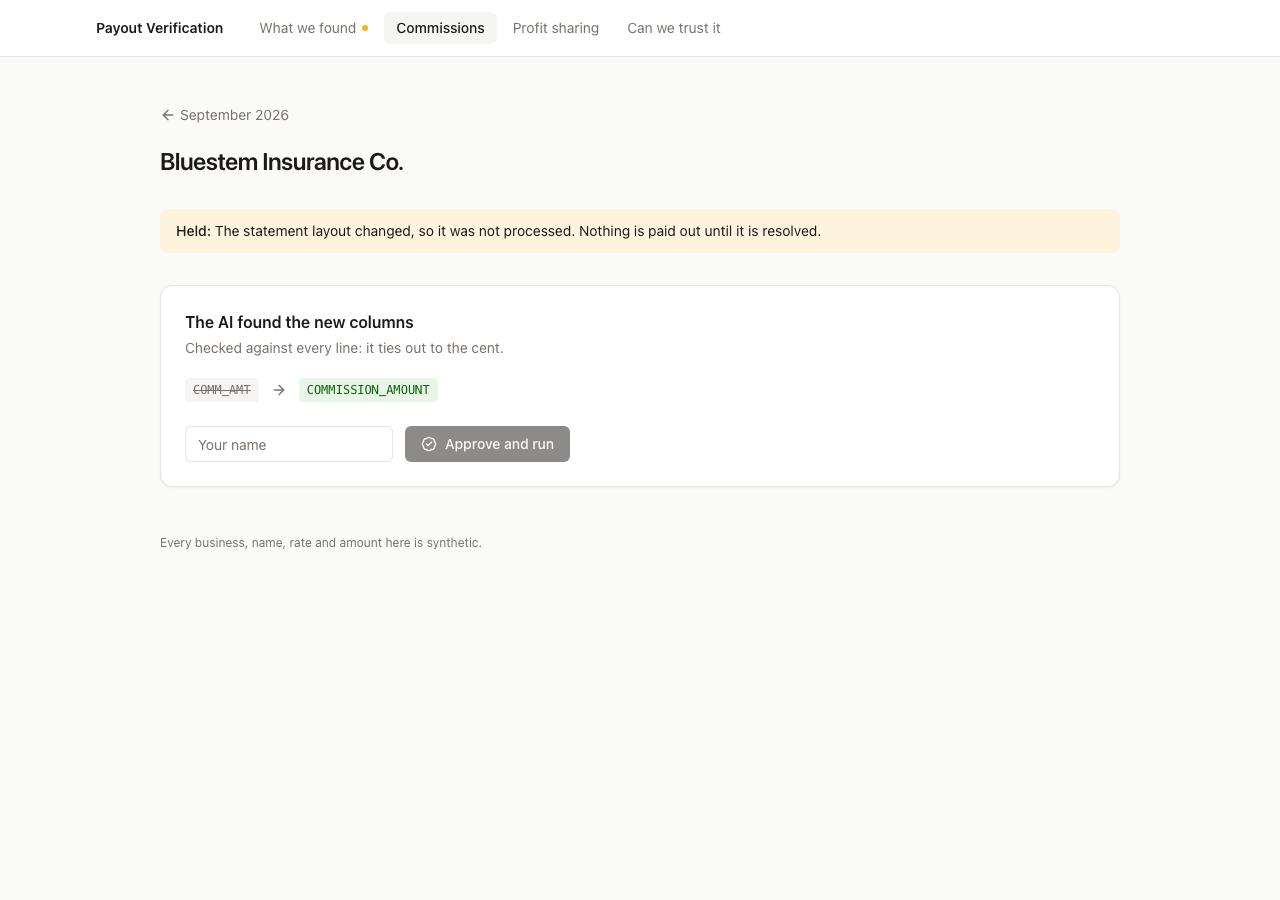
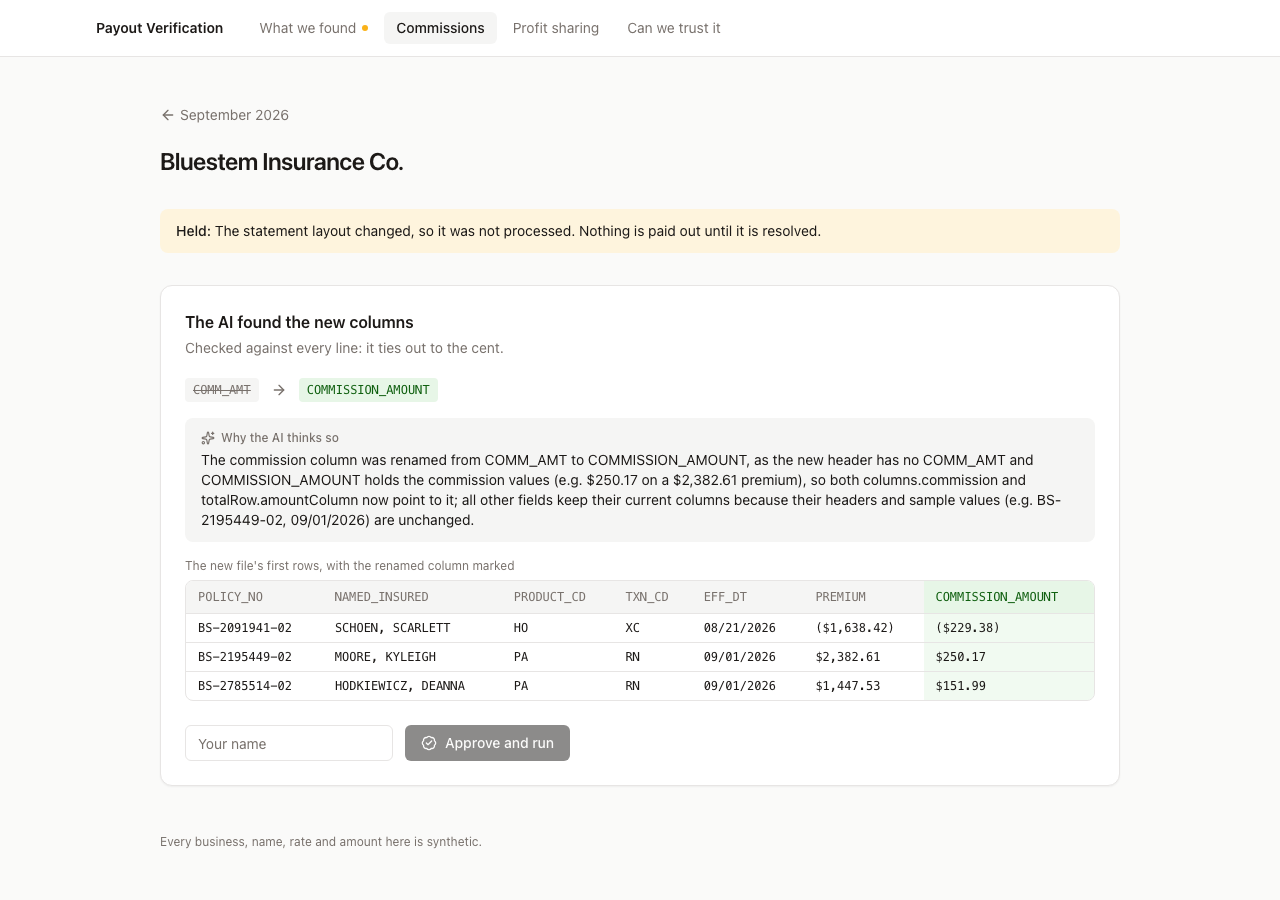
Show the AI's reasoning and the file rows on a layout approval
The approval card for a changed layout shows the AI's explanation and the new
file's first rows with the renamed column marked, beside the check that the fix
reads every line and ties out.

Claude-Session: https://claude.ai/code/session_01F9PtxJnSjoApL6ConeJ8h6

diff --git a/web/src/components/approval-panel.tsx b/web/src/components/approval-panel.tsx
@@ -1,11 +1,13 @@
-import { ArrowRight, BadgeCheck, Loader2 } from "lucide-react";
+import { ArrowRight, BadgeCheck, Loader2, Sparkles } from "lucide-react";
 import { useState } from "react";
-import { useApprovals, useApprove, useRunBonus, useRunPeriod } from "@/api/client";
+import { useApprovals, useApprove, useRunBonus, useRunPeriod, useStatementCsv } from "@/api/client";
 import type { BonusRules, PendingApproval } from "@/api/types";
 import { Button } from "@/components/ui/button";
 import { Card } from "@/components/ui/card";
 import { Input } from "@/components/ui/input";
+import { parseCsv } from "@/lib/csv";
 import { money, rate } from "@/lib/format";
+import { cn } from "@/lib/utils";
 
 const REVIEWER_KEY = "payout-verification:reviewer";
 
@@ -68,17 +70,81 @@ export function ApprovalPanel({ approvalId }: { approvalId: string }) {
   );
 }
 
+/**
+ * The AI's fix for a changed layout, with its reasoning and the evidence: the new file's first rows,
+ * the renamed columns marked. The check above says whether code proved it against every line.
+ */
 function LayoutChanges({ item }: { item: Extract<PendingApproval, { kind: "layout" }> }) {
   const columns = [...new Map(item.changes.map(change => [`${change.from}>${change.to}`, change])).values()];
+  const carrierId = item.id.split(":")[2] ?? "";
+  const { data: csv } = useStatementCsv(item.period, carrierId, carrierId !== "");
+  const [header = [], ...rows] = csv ? parseCsv(csv) : [];
+  const renamed = new Set(columns.map(change => change.to));
+
   return (
-    <div className="flex flex-col gap-2">
-      {columns.map(change => (
-        <div key={change.field} className="flex items-center gap-3 text-sm">
-          <code className="rounded bg-muted px-2 py-1 text-xs text-muted-foreground line-through">{change.from}</code>
-          <ArrowRight className="size-4 text-muted-foreground" />
-          <code className="rounded bg-good-soft px-2 py-1 text-xs text-good-ink">{change.to}</code>
+    <div className="flex flex-col gap-4">
+      <div className="flex flex-col gap-2">
+        {columns.map(change => (
+          <div key={change.field} className="flex items-center gap-3 text-sm">
+            <code className="rounded bg-muted px-2 py-1 text-xs text-muted-foreground line-through">{change.from}</code>
+            <ArrowRight className="size-4 text-muted-foreground" />
+            <code className="rounded bg-good-soft px-2 py-1 text-xs text-good-ink">{change.to}</code>
+          </div>
+        ))}
+      </div>
+
+      {item.explanation && (
+        <div className="rounded-lg bg-muted px-4 py-3 text-sm">
+          <div className="mb-1 flex items-center gap-1.5 text-xs font-medium text-muted-foreground">
+            <Sparkles className="size-3.5" /> Why the AI thinks so
+          </div>
+          {item.explanation}
         </div>
-      ))}
+      )}
+
+      {header.length > 0 && (
+        <div>
+          <div className="mb-1.5 text-xs text-muted-foreground">
+            The new file's first rows, with the renamed column marked
+          </div>
+          <div className="overflow-x-auto rounded-lg border">
+            <table className="w-full font-mono text-xs">
+              <thead className="bg-muted text-muted-foreground">
+                <tr>
+                  {header.map(cell => (
+                    <th
+                      key={cell}
+                      className={cn(
+                        "px-3 py-2 text-left font-normal whitespace-nowrap",
+                        renamed.has(cell) && "bg-good-soft font-medium text-good-ink"
+                      )}
+                    >
+                      {cell}
+                    </th>
+                  ))}
+                </tr>
+              </thead>
+              <tbody>
+                {rows.slice(0, 3).map((cells, index) => (
+                  <tr key={index} className="border-t">
+                    {cells.map((cell, column) => (
+                      <td
+                        key={column}
+                        className={cn(
+                          "px-3 py-1.5 whitespace-nowrap",
+                          renamed.has(header[column] ?? "") && "bg-good-soft/60"
+                        )}
+                      >
+                        {cell}
+                      </td>
+                    ))}
+                  </tr>
+                ))}
+              </tbody>
+            </table>
+          </div>
+        </div>
+      )}
     </div>
   );
 }

diff --git a/docs/process/build-log.md b/docs/process/build-log.md
@@ -497,3 +497,11 @@ loss-ratio step (this year's marked), the cap, and the terms the rules cannot ex
 reviewer. It ends on the approval being tied to that exact document. The approved rules now keep those
 reviewer notes as data (`notes` in `rules.yaml`) instead of only as comments, and the API serves the
 agreement PDF.
+
+### The AI's reasoning on a changed layout (2026-11-01)
+
+The approval card for a changed layout showed only the answer (old column, new column). It now also
+shows the AI's own explanation of why, and the new file's first rows with the renamed column marked,
+under the code's check that the fix reads every line and ties out. With this, each of the AI's four
+jobs is visible in the admin: reading a printed statement, reading a retailer remittance, reading a
+bonus agreement, and working out a changed layout.
